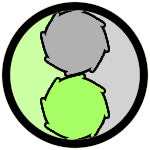
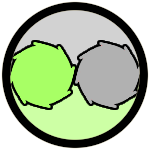
5/30

diff --git a/HariGame/Classes/Scene/GameScene.cpp b/HariGame/Classes/Scene/GameScene.cpp
@@ -132,13 +132,13 @@ bool GameScene::init()
     _player_front = Player::createPlayer(OBJ_COLOR::OBJ_RED);
     _player_front->setName("player_front");
     ((Player*)_player_front)->SetStartPosition(_mapData->getLayer("startPosition"), _mapData->getTileSize());
-    _player_front->setScale(0.2f);
+    //_player_front->setScale(0.2f);
     _player_front->SetPoint(cocos2d::Vec2(20.0f, 20.0f));
 
     _player_behind = Player::createPlayer(OBJ_COLOR::OBJ_GREEN);
     _player_behind->setName("player_behind");
     _player_behind->setPosition(_player_front->getPosition());
-    _player_behind->setScale(0.2f);
+    //_player_behind->setScale(0.2f);
     _player_behind->SetPoint(cocos2d::Vec2(20.0f, 20.0f));
 
     _plauerLayer->addChild(_player_behind);
@@ -422,6 +422,11 @@ void GameScene::changeScene(Ref* pSender)
 
 void GameScene::SetMenu(Ref* pSender)
 {
+    if ((!GameStart())||(_goalFlag))
+    {
+        return;
+    }
+
     if (!_menuFlag)
     {
         this->unscheduleUpdate();
